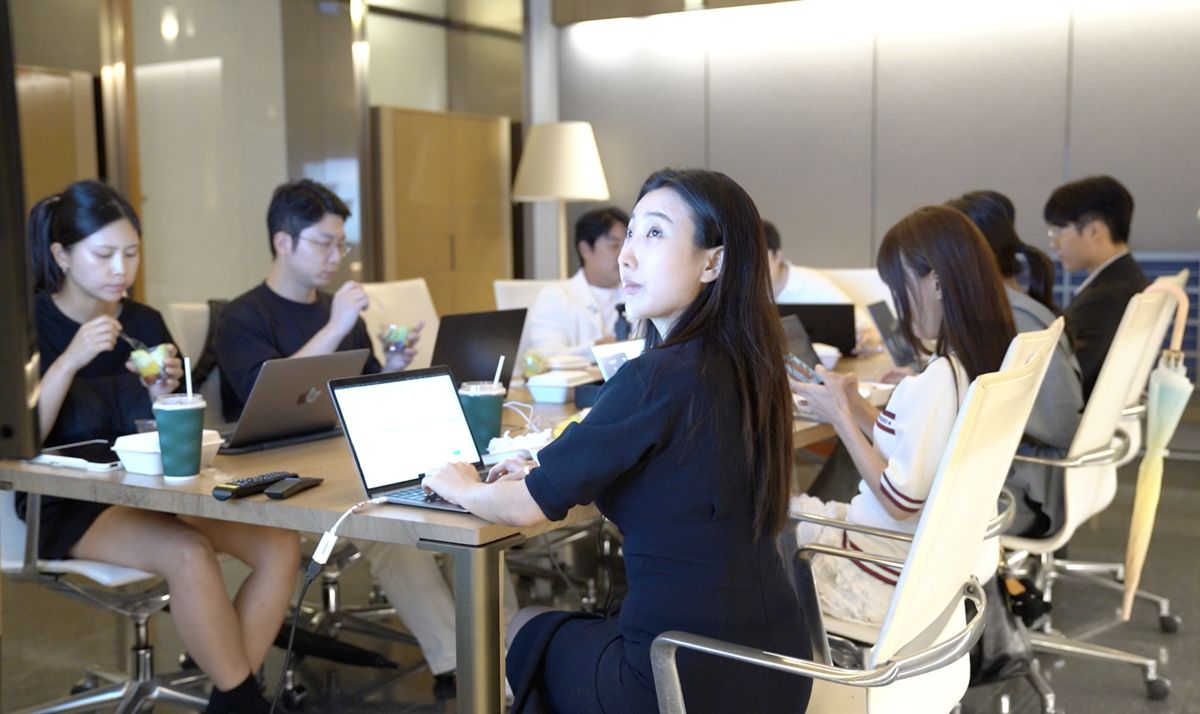
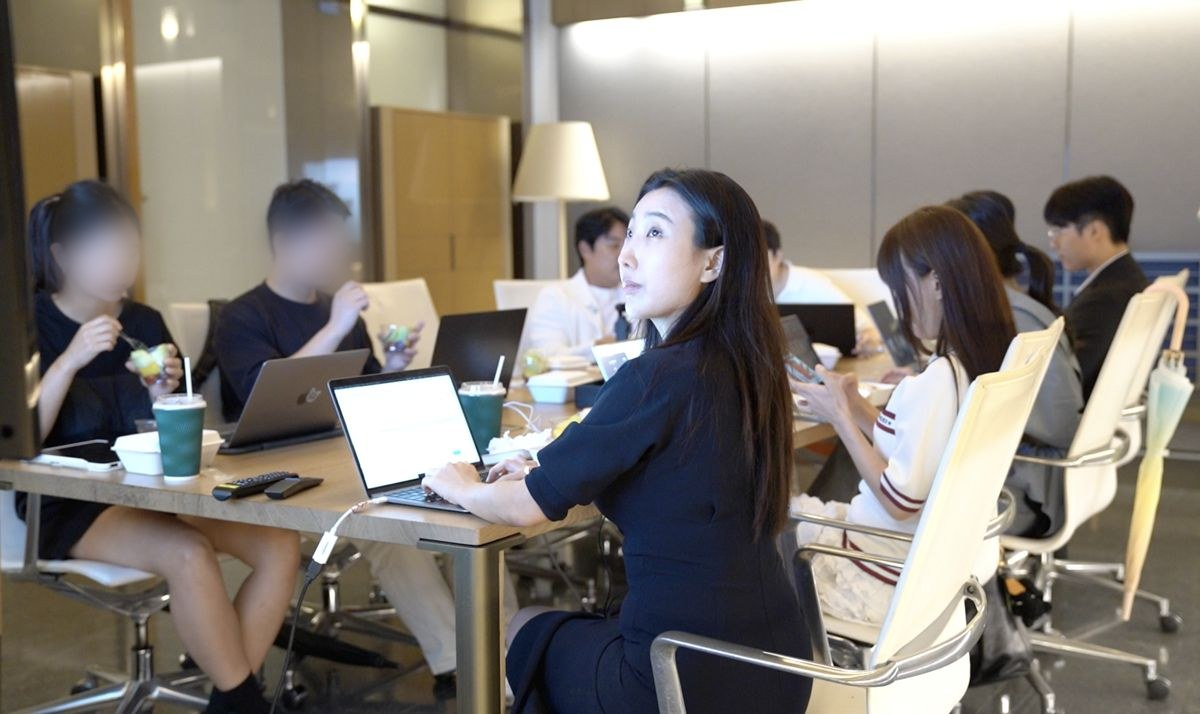
Blur two attendees' faces in the classroom photo
Claude-Session: https://claude.ai/code/session_014kF7YLc9H3NWEgvSGgsqkD

Changed region(s): [[0.0308, 0.2773, 0.1233, 0.4314], [0.2158, 0.2773, 0.3083, 0.4314]]

diff --git a/index.html b/index.html
@@ -85,7 +85,7 @@
 <div class="pt-list"><a class="pt-row" href="advisory.html"><span class="pt-rt"><b>커리어 전략 컨설팅</b><small>한국에 남을지, 나갈지 1:1로 · 1:1 · 한 달</small></span><svg width="16" height="16" viewBox="0 0 24 24" fill="none" stroke="currentColor" stroke-width="2" stroke-linecap="round" aria-hidden="true"><path d="M5 12h14M13 6l6 6-6 6"/></svg></a><a class="pt-more" href="advisory.html">커리어 전략 컨설팅 자세히 보기 <svg width="16" height="16" viewBox="0 0 24 24" fill="none" stroke="currentColor" stroke-width="2" stroke-linecap="round" aria-hidden="true"><path d="M5 12h14M13 6l6 6-6 6"/></svg></a></div></div><div class="pt-panel" role="tabpanel" id="pp-shops" aria-labelledby="pt-shops" hidden>
 <a class="pt-feat" href="workshops.html"><div class="pt-img"><img src="assets/img/enterprise-lecture.jpg" alt="" loading="lazy"></div><div class="pt-fb"><b>온라인 AI 워크숍</b><span>두 시간 동안 주제 하나만 깊게, Sylvia와 같이 직접 해봐요.</span><small>2시간 · 온라인</small></div></a>
 <div class="pt-list"><a class="pt-row" href="workshops.html"><span class="pt-rt"><b>Claude로 디자인 시스템 지키며 프로토타이핑</b><small>라이브 실습 · 2시간</small></span><svg width="16" height="16" viewBox="0 0 24 24" fill="none" stroke="currentColor" stroke-width="2" stroke-linecap="round" aria-hidden="true"><path d="M5 12h14M13 6l6 6-6 6"/></svg></a><a class="pt-row" href="workshops.html"><span class="pt-rt"><b>해외 서비스를 한국 사용자에게 맞게 뜯어보기</b><small>라이브 실습 · 2시간</small></span><svg width="16" height="16" viewBox="0 0 24 24" fill="none" stroke="currentColor" stroke-width="2" stroke-linecap="round" aria-hidden="true"><path d="M5 12h14M13 6l6 6-6 6"/></svg></a><a class="pt-row" href="workshops.html"><span class="pt-rt"><b>바이브코딩으로 첫 화면 띄우기</b><small>라이브 실습 · 2시간</small></span><svg width="16" height="16" viewBox="0 0 24 24" fill="none" stroke="currentColor" stroke-width="2" stroke-linecap="round" aria-hidden="true"><path d="M5 12h14M13 6l6 6-6 6"/></svg></a><a class="pt-more" href="workshops.html">워크숍 전체 보기 <svg width="16" height="16" viewBox="0 0 24 24" fill="none" stroke="currentColor" stroke-width="2" stroke-linecap="round" aria-hidden="true"><path d="M5 12h14M13 6l6 6-6 6"/></svg></a></div></div><div class="pt-panel" role="tabpanel" id="pp-team" aria-labelledby="pt-team" hidden>
-<a class="pt-feat" href="team.html"><div class="pt-img"><img src="assets/img/heeju-professor.jpg" alt="" loading="lazy"></div><div class="pt-fb"><b>기업 교육 · 강연</b><span>팀 전체가 AI로 일하도록, 워크숍부터 4주 과정까지 팀에 맞춰 진행해요.</span><small>워크숍 · 강연 · 4주 과정</small></div></a>
+<a class="pt-feat" href="team.html"><div class="pt-img"><img src="assets/img/heeju-professor.jpg?v=2" alt="" loading="lazy"></div><div class="pt-fb"><b>기업 교육 · 강연</b><span>팀 전체가 AI로 일하도록, 워크숍부터 4주 과정까지 팀에 맞춰 진행해요.</span><small>워크숍 · 강연 · 4주 과정</small></div></a>
 <div class="pt-list"><a class="pt-row" href="kit.html"><span class="pt-rt"><b>SKILL.md 키트</b><small>Claude·Figma에 넣으면 바로 쓰는 파일 · 키트</small></span><svg width="16" height="16" viewBox="0 0 24 24" fill="none" stroke="currentColor" stroke-width="2" stroke-linecap="round" aria-hidden="true"><path d="M5 12h14M13 6l6 6-6 6"/></svg></a><a class="pt-row" href="contact.html"><span class="pt-rt"><b>프로젝트 문의</b><small>한국 시장 진출 · UX 진단 · 문의</small></span><svg width="16" height="16" viewBox="0 0 24 24" fill="none" stroke="currentColor" stroke-width="2" stroke-linecap="round" aria-hidden="true"><path d="M5 12h14M13 6l6 6-6 6"/></svg></a><a class="pt-more" href="contact.html?topic=team">기업 교육 문의하기 <svg width="16" height="16" viewBox="0 0 24 24" fill="none" stroke="currentColor" stroke-width="2" stroke-linecap="round" aria-hidden="true"><path d="M5 12h14M13 6l6 6-6 6"/></svg></a></div></div></div></section>
 <a href="contact.html?topic=advisory" class="fab-cta" data-track="home_cta" aria-label="무료 상담 받기"><svg width="20" height="20" viewBox="0 0 24 24" fill="none" stroke="currentColor" stroke-width="2" stroke-linecap="round" stroke-linejoin="round" aria-hidden="true"><path d="M21 11.5a8.4 8.4 0 0 1-11.9 7.6L3 21l1.9-6.1A8.4 8.4 0 1 1 21 11.5z"/></svg><span>무료 상담</span></a></main><footer class="foot"><div class="wrap">
 <div class="cols">

diff --git a/en/index.html b/en/index.html
@@ -84,7 +84,7 @@
 <div class="pt-list"><a class="pt-row" href="advisory.html"><span class="pt-rt"><b>Career strategy consulting</b><small>Stay in Korea or go abroad, decided 1:1 · 1:1 · 1 month</small></span><svg width="16" height="16" viewBox="0 0 24 24" fill="none" stroke="currentColor" stroke-width="2" stroke-linecap="round" aria-hidden="true"><path d="M5 12h14M13 6l6 6-6 6"/></svg></a><a class="pt-more" href="advisory.html">See career strategy consulting <svg width="16" height="16" viewBox="0 0 24 24" fill="none" stroke="currentColor" stroke-width="2" stroke-linecap="round" aria-hidden="true"><path d="M5 12h14M13 6l6 6-6 6"/></svg></a></div></div><div class="pt-panel" role="tabpanel" id="pp-shops" aria-labelledby="pt-shops" hidden>
 <a class="pt-feat" href="workshops.html"><div class="pt-img"><img src="../assets/img/enterprise-lecture.jpg" alt="" loading="lazy"></div><div class="pt-fb"><b>Live AI workshops</b><span>Two hours, one topic, hands-on with Sylvia.</span><small>2 hours · online</small></div></a>
 <div class="pt-list"><a class="pt-row" href="workshops.html"><span class="pt-rt"><b>Prototyping with Claude inside your design system</b><small>Hands-on · 2 hours</small></span><svg width="16" height="16" viewBox="0 0 24 24" fill="none" stroke="currentColor" stroke-width="2" stroke-linecap="round" aria-hidden="true"><path d="M5 12h14M13 6l6 6-6 6"/></svg></a><a class="pt-row" href="workshops.html"><span class="pt-rt"><b>Taking apart a global product for Korean users</b><small>Hands-on · 2 hours</small></span><svg width="16" height="16" viewBox="0 0 24 24" fill="none" stroke="currentColor" stroke-width="2" stroke-linecap="round" aria-hidden="true"><path d="M5 12h14M13 6l6 6-6 6"/></svg></a><a class="pt-row" href="workshops.html"><span class="pt-rt"><b>Ship your first screen with vibe coding</b><small>Hands-on · 2 hours</small></span><svg width="16" height="16" viewBox="0 0 24 24" fill="none" stroke="currentColor" stroke-width="2" stroke-linecap="round" aria-hidden="true"><path d="M5 12h14M13 6l6 6-6 6"/></svg></a><a class="pt-more" href="workshops.html">See all workshops <svg width="16" height="16" viewBox="0 0 24 24" fill="none" stroke="currentColor" stroke-width="2" stroke-linecap="round" aria-hidden="true"><path d="M5 12h14M13 6l6 6-6 6"/></svg></a></div></div><div class="pt-panel" role="tabpanel" id="pp-team" aria-labelledby="pt-team" hidden>
-<a class="pt-feat" href="team.html"><div class="pt-img"><img src="../assets/img/heeju-professor.jpg" alt="" loading="lazy"></div><div class="pt-fb"><b>Team training & talks</b><span>Get your whole team working with AI, from a single workshop to a 4-week program.</span><small>Workshops · talks · 4-week programs</small></div></a>
+<a class="pt-feat" href="team.html"><div class="pt-img"><img src="../assets/img/heeju-professor.jpg?v=2" alt="" loading="lazy"></div><div class="pt-fb"><b>Team training & talks</b><span>Get your whole team working with AI, from a single workshop to a 4-week program.</span><small>Workshops · talks · 4-week programs</small></div></a>
 <div class="pt-list"><a class="pt-row" href="kit.html"><span class="pt-rt"><b>SKILL.md kit</b><small>Files you drop into Claude or Figma · Kit</small></span><svg width="16" height="16" viewBox="0 0 24 24" fill="none" stroke="currentColor" stroke-width="2" stroke-linecap="round" aria-hidden="true"><path d="M5 12h14M13 6l6 6-6 6"/></svg></a><a class="pt-row" href="contact.html"><span class="pt-rt"><b>Project inquiry</b><small>Korea market entry · UX review · Contact</small></span><svg width="16" height="16" viewBox="0 0 24 24" fill="none" stroke="currentColor" stroke-width="2" stroke-linecap="round" aria-hidden="true"><path d="M5 12h14M13 6l6 6-6 6"/></svg></a><a class="pt-more" href="contact.html?topic=team">Ask about team training <svg width="16" height="16" viewBox="0 0 24 24" fill="none" stroke="currentColor" stroke-width="2" stroke-linecap="round" aria-hidden="true"><path d="M5 12h14M13 6l6 6-6 6"/></svg></a></div></div></div></section>
 <a href="contact.html?topic=advisory" class="fab-cta" data-track="home_cta" aria-label="Free consultation"><svg width="20" height="20" viewBox="0 0 24 24" fill="none" stroke="currentColor" stroke-width="2" stroke-linecap="round" stroke-linejoin="round" aria-hidden="true"><path d="M21 11.5a8.4 8.4 0 0 1-11.9 7.6L3 21l1.9-6.1A8.4 8.4 0 1 1 21 11.5z"/></svg><span>Free consult</span></a></main><footer class="foot"><div class="wrap">
 <div class="cols">

diff --git a/bootcamps.html b/bootcamps.html
@@ -64,7 +64,7 @@
 </div></div>
 <main id="main"><div class="wrap crumb"><a href="./">홈</a> / <b>AI 부트캠프</b></div><section class="wrap page-hero"><span class="eyebrow">AI 부트캠프</span><h1 class="h1">전략부터 디자인 시스템, 코드까지 AI로</h1><p class="lead">3~4주 동안 한 기수로 같이 해요. 주 1회 라이브, 매주 피드백.</p><div class="chips" data-single role="group" aria-label="필터"><button class="chip" aria-pressed="true" data-filter="all">전체</button><button class="chip" aria-pressed="false" data-filter="strategy">전략</button><button class="chip" aria-pressed="false" data-filter="design">디자인</button><button class="chip" aria-pressed="false" data-filter="systems">디자인 시스템</button><button class="chip" aria-pressed="false" data-filter="engineering">엔지니어링</button></div></section>
 <section class="wrap" style="padding-bottom:56px"><div class="grid"><a class="card" id="strategy" href="contact.html?topic=bootcamp" data-cat="strategy">
-<div class="ph"><img src="assets/img/heeju-professor.jpg" alt="" loading="lazy"></div>
+<div class="ph"><img src="assets/img/heeju-professor.jpg?v=2" alt="" loading="lazy"></div>
 <span style="display:flex;justify-content:space-between;align-items:center;gap:8px"><h3>AI 프로덕트 전략</h3><span class="live"><i></i>LIVE</span></span>
 <p>리서치를 종합해 문제를 정의하고, 가설·지표·실험으로 근거 있는 결정을 내려요.</p><span class="flow">리서치 종합·문제 정의 → 가설·우선순위·성공 지표 → 가정 검토·실험 설계·근거 기반 의사결정</span><span class="meta">3주 · 라이브 기수</span></a><a class="card" id="design" href="ai-product-design.html" data-cat="design">
 <div class="ph"><img src="assets/img/kookmin-lecture.jpg" alt="" loading="lazy"></div>

diff --git a/en/bootcamps.html b/en/bootcamps.html
@@ -63,7 +63,7 @@
 </div></div>
 <main id="main"><div class="wrap crumb"><a href="./">Home</a> / <b>AI bootcamps</b></div><section class="wrap page-hero"><span class="eyebrow">AI bootcamps</span><h1 class="h1">Strategy, design, systems and code, with AI</h1><p class="lead">Three to four weeks in a small cohort. One live class and feedback every week.</p><div class="chips" data-single role="group" aria-label="Filter"><button class="chip" aria-pressed="true" data-filter="all">All</button><button class="chip" aria-pressed="false" data-filter="strategy">Strategy</button><button class="chip" aria-pressed="false" data-filter="design">Design</button><button class="chip" aria-pressed="false" data-filter="systems">Design systems</button><button class="chip" aria-pressed="false" data-filter="engineering">Engineering</button></div></section>
 <section class="wrap" style="padding-bottom:56px"><div class="grid"><a class="card" id="strategy" href="contact.html?topic=bootcamp" data-cat="strategy">
-<div class="ph"><img src="../assets/img/heeju-professor.jpg" alt="" loading="lazy"></div>
+<div class="ph"><img src="../assets/img/heeju-professor.jpg?v=2" alt="" loading="lazy"></div>
 <span style="display:flex;justify-content:space-between;align-items:center;gap:8px"><h3>AI Product Strategy</h3><span class="live"><i></i>LIVE</span></span>
 <p>Synthesize research, frame the problem, and make evidence-based calls with hypotheses, metrics and experiments.</p><span class="flow">Research synthesis & problem framing → hypotheses, priorities & success metrics → assumption checks, experiment design & evidence-based decisions</span><span class="meta">3 weeks · live cohort</span></a><a class="card" id="design" href="ai-product-design.html" data-cat="design">
 <div class="ph"><img src="../assets/img/kookmin-lecture.jpg" alt="" loading="lazy"></div>
